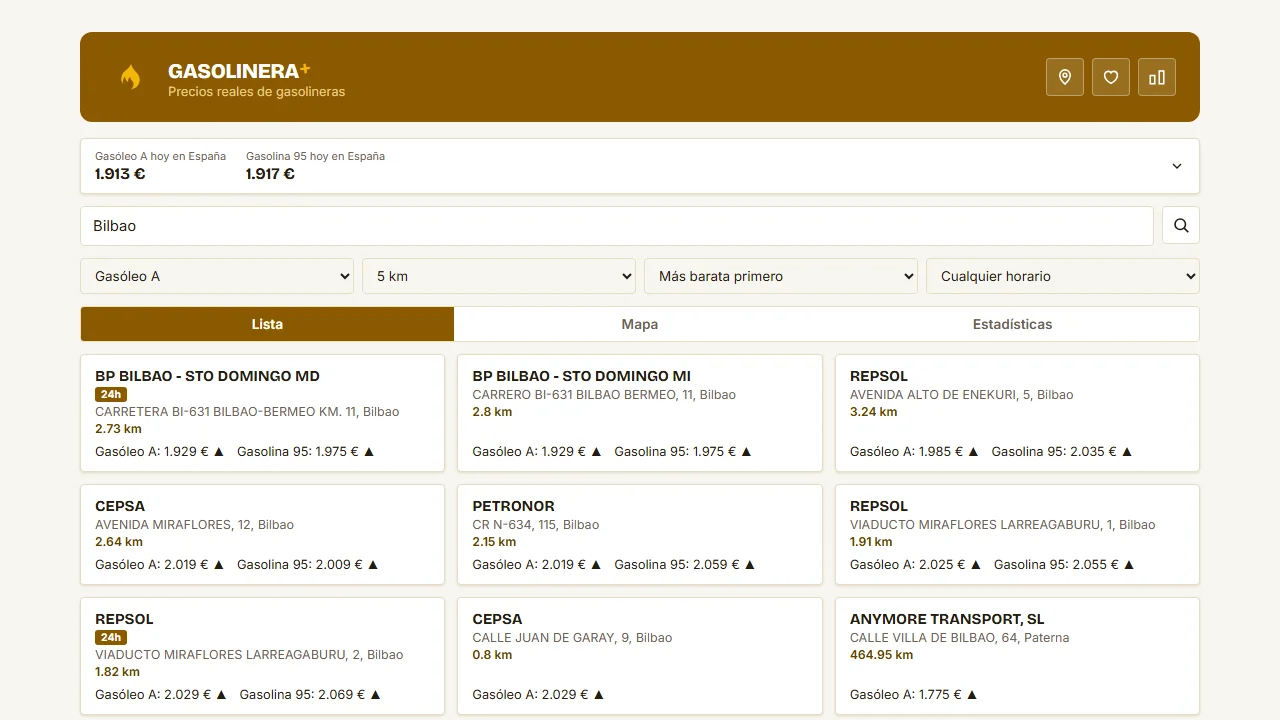
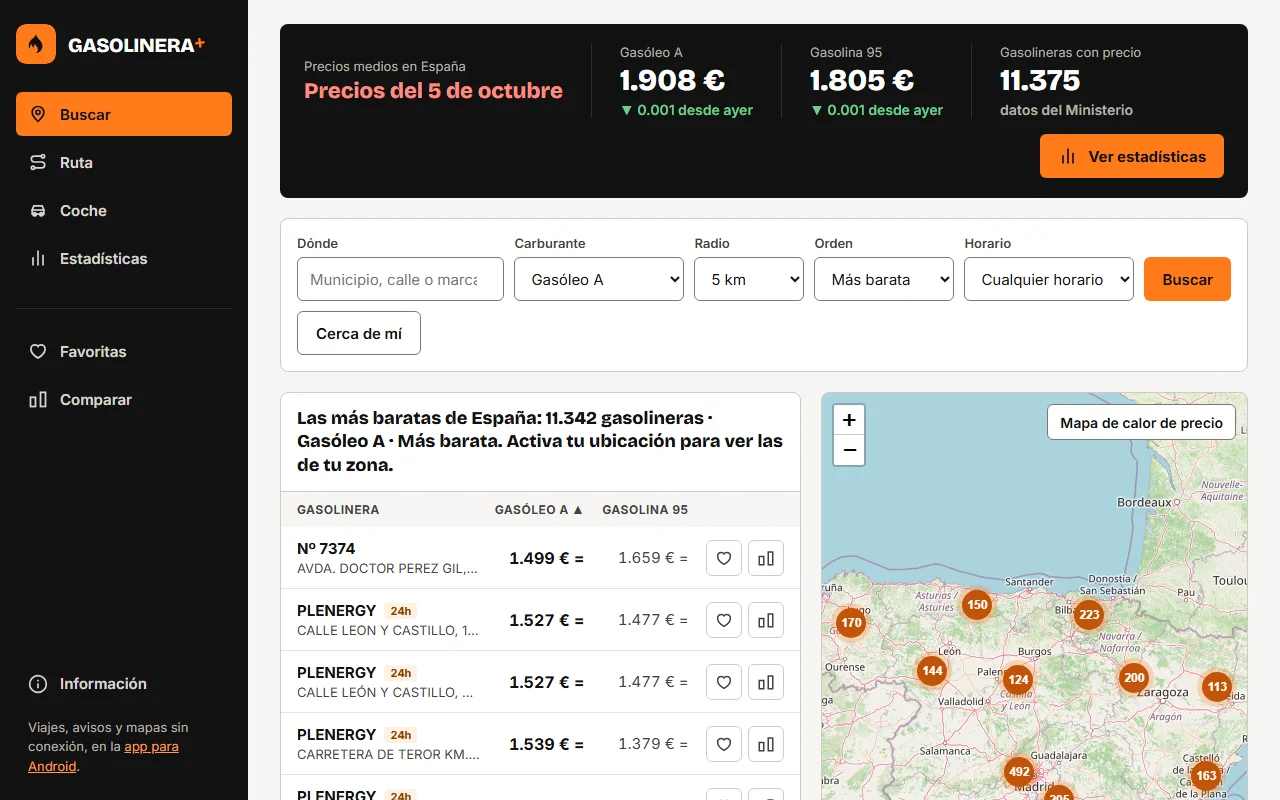
feat(projects): renovar capturas de Gasolinera+ desde local y añadir vistas completas de Pokémon PSA (admin menu, dark mode y carta en pantalla completa)

diff --git a/scripts/take_all_captures.py b/scripts/take_all_captures.py
@@ -1,0 +1,144 @@
+import os
+import time
+import subprocess
+from PIL import Image
+from playwright.sync_api import sync_playwright
+
+OUT_DIR = r"c:\Users\ygarrido\Documents\yeraygarrido.dev\public\img\projects"
+GASOLINERA_DIR = r"C:\Users\ygarrido\Documents\gasolinera-plus"
+PHP_EXE = r"C:\php\php.exe"
+
+def save_image(page, name_base):
+    png_path = os.path.join(OUT_DIR, f"{name_base}.png")
+    webp_path = os.path.join(OUT_DIR, f"{name_base}.webp")
+    page.screenshot(path=png_path)
+    im = Image.open(png_path).convert('RGB')
+    im.save(webp_path, 'WEBP', quality=85)
+    print(f"Saved {name_base}.png and {name_base}.webp ({os.path.getsize(webp_path)} bytes)")
+
+def run():
+    print("--- 1. CAPTURING GASOLINERA+ FROM LOCAL PAGE ---")
+    php_proc = subprocess.Popen([PHP_EXE, "-S", "127.0.0.1:8012", "dev-router.php"], cwd=GASOLINERA_DIR)
+    time.sleep(2)
+
+    try:
+        with sync_playwright() as p:
+            browser = p.chromium.launch()
+
+            # Gasolinera Desktop
+            p_gas_desk = browser.new_page(viewport={"width": 1280, "height": 800})
+            p_gas_desk.goto("http://127.0.0.1:8012")
+            p_gas_desk.wait_for_timeout(3500)
+            # Remove any top splash if present
+            p_gas_desk.evaluate("() => { const s = document.getElementById('splash'); if (s) s.remove(); document.documentElement.classList.remove('is-loading'); }")
+            p_gas_desk.wait_for_timeout(500)
+            save_image(p_gas_desk, "gasolinera_desktop")
+
+            # Gasolinera Mapa View
+            # Check map toggle button
+            p_gas_desk.evaluate("() => { const b = document.getElementById('map-toggle'); if (b) b.click(); }")
+            p_gas_desk.wait_for_timeout(1500)
+            save_image(p_gas_desk, "gasolinera_mapa")
+
+            # Gasolinera Mobile
+            p_gas_mob = browser.new_page(viewport={"width": 375, "height": 812})
+            p_gas_mob.goto("http://127.0.0.1:8012")
+            p_gas_mob.wait_for_timeout(3500)
+            p_gas_mob.evaluate("() => { const s = document.getElementById('splash'); if (s) s.remove(); document.documentElement.classList.remove('is-loading'); }")
+            p_gas_mob.wait_for_timeout(500)
+            save_image(p_gas_mob, "gasolinera_mobile")
+
+            print("--- 2. CAPTURING POKEMON CARD PSA TRACKER (DARK THEME, ADMIN MENU, FULLSCREEN SLAB) ---")
+            
+            # A) Card PSA Tracker - Dark Theme Desktop
+            p_psa_dark = browser.new_page(viewport={"width": 1280, "height": 800})
+            p_psa_dark.goto("https://garridoparrayeray.github.io/card_psa_tracker/")
+            p_psa_dark.wait_for_timeout(2000)
+            p_psa_dark.evaluate("() => { if (typeof setTheme === 'function') setTheme('dark'); else if (typeof applyTheme === 'function') applyTheme('dark'); }")
+            p_psa_dark.wait_for_timeout(1000)
+            save_image(p_psa_dark, "psa_dark_desktop")
+
+            # B) Card PSA Tracker - Dark Theme Mobile
+            p_psa_dark_mob = browser.new_page(viewport={"width": 375, "height": 812})
+            p_psa_dark_mob.goto("https://garridoparrayeray.github.io/card_psa_tracker/")
+            p_psa_dark_mob.wait_for_timeout(2000)
+            p_psa_dark_mob.evaluate("() => { if (typeof setTheme === 'function') setTheme('dark'); else if (typeof applyTheme === 'function') applyTheme('dark'); }")
+            p_psa_dark_mob.wait_for_timeout(1000)
+            save_image(p_psa_dark_mob, "psa_dark_mobile")
+
+            # C) Admin Menu - Desktop & Mobile
+            p_admin_desk = browser.new_page(viewport={"width": 1280, "height": 800})
+            p_admin_desk.goto("https://garridoparrayeray.github.io/card_psa_tracker/admin.html")
+            p_admin_desk.wait_for_timeout(2000)
+            # Open admin menu
+            p_admin_desk.evaluate("() => { state.admMenu = true; render(false); }")
+            p_admin_desk.wait_for_timeout(1000)
+            save_image(p_admin_desk, "psa_admin_menu_desktop")
+
+            p_admin_mob = browser.new_page(viewport={"width": 375, "height": 812})
+            p_admin_mob.goto("https://garridoparrayeray.github.io/card_psa_tracker/admin.html")
+            p_admin_mob.wait_for_timeout(2000)
+            p_admin_mob.evaluate("() => { state.admMenu = true; render(false); }")
+            p_admin_mob.wait_for_timeout(1000)
+            save_image(p_admin_mob, "psa_admin_menu_mobile")
+
+            # D) Admin in Dark Theme
+            p_admin_dark = browser.new_page(viewport={"width": 1280, "height": 800})
+            p_admin_dark.goto("https://garridoparrayeray.github.io/card_psa_tracker/admin.html")
+            p_admin_dark.wait_for_timeout(2000)
+            p_admin_dark.evaluate("() => { state.admMenu = false; if (typeof setTheme === 'function') setTheme('dark'); render(false); }")
+            p_admin_dark.wait_for_timeout(1000)
+            save_image(p_admin_dark, "psa_admin_dark_desktop")
+
+            # E) Fullscreen Card Slab View (Ver la carta en pantalla completa)
+            # Both on Desktop and Mobile
+            p_slab_desk = browser.new_page(viewport={"width": 1280, "height": 800})
+            p_slab_desk.goto("https://garridoparrayeray.github.io/card_psa_tracker/admin.html")
+            p_slab_desk.wait_for_timeout(2000)
+            # Open Charizard in full screen viewer
+            p_slab_desk.evaluate('''() => {
+                var c = cards.find(x => x.id === 'chz') || cards[0];
+                state.card = c.id;
+                var el = document.getElementById('main');
+                el.innerHTML = viewerHtml();
+                document.body.classList.add('lock');
+            }''')
+            p_slab_desk.wait_for_timeout(1500)
+            save_image(p_slab_desk, "psa_card_fullscreen_desktop")
+
+            p_slab_mob = browser.new_page(viewport={"width": 375, "height": 812})
+            p_slab_mob.goto("https://garridoparrayeray.github.io/card_psa_tracker/admin.html")
+            p_slab_mob.wait_for_timeout(2000)
+            p_slab_mob.evaluate('''() => {
+                var c = cards.find(x => x.id === 'chz') || cards[0];
+                state.card = c.id;
+                var el = document.getElementById('main');
+                el.innerHTML = viewerHtml();
+                document.body.classList.add('lock');
+            }''')
+            p_slab_mob.wait_for_timeout(1500)
+            save_image(p_slab_mob, "psa_card_fullscreen_mobile")
+
+            # Also capture card in Dark Theme fullscreen
+            p_slab_dark = browser.new_page(viewport={"width": 1280, "height": 800})
+            p_slab_dark.goto("https://garridoparrayeray.github.io/card_psa_tracker/admin.html")
+            p_slab_dark.wait_for_timeout(2000)
+            p_slab_dark.evaluate('''() => {
+                setTheme('dark');
+                var c = cards.find(x => x.id === 'chz') || cards[0];
+                state.card = c.id;
+                var el = document.getElementById('main');
+                el.innerHTML = viewerHtml();
+                document.body.classList.add('lock');
+            }''')
+            p_slab_dark.wait_for_timeout(1500)
+            save_image(p_slab_dark, "psa_card_fullscreen_dark")
+
+            browser.close()
+            print("--- ALL CAPTURES COMPLETED SUCCESSFULLY ---")
+    finally:
+        php_proc.terminate()
+        print("PHP server terminated.")
+
+if __name__ == "__main__":
+    run()
